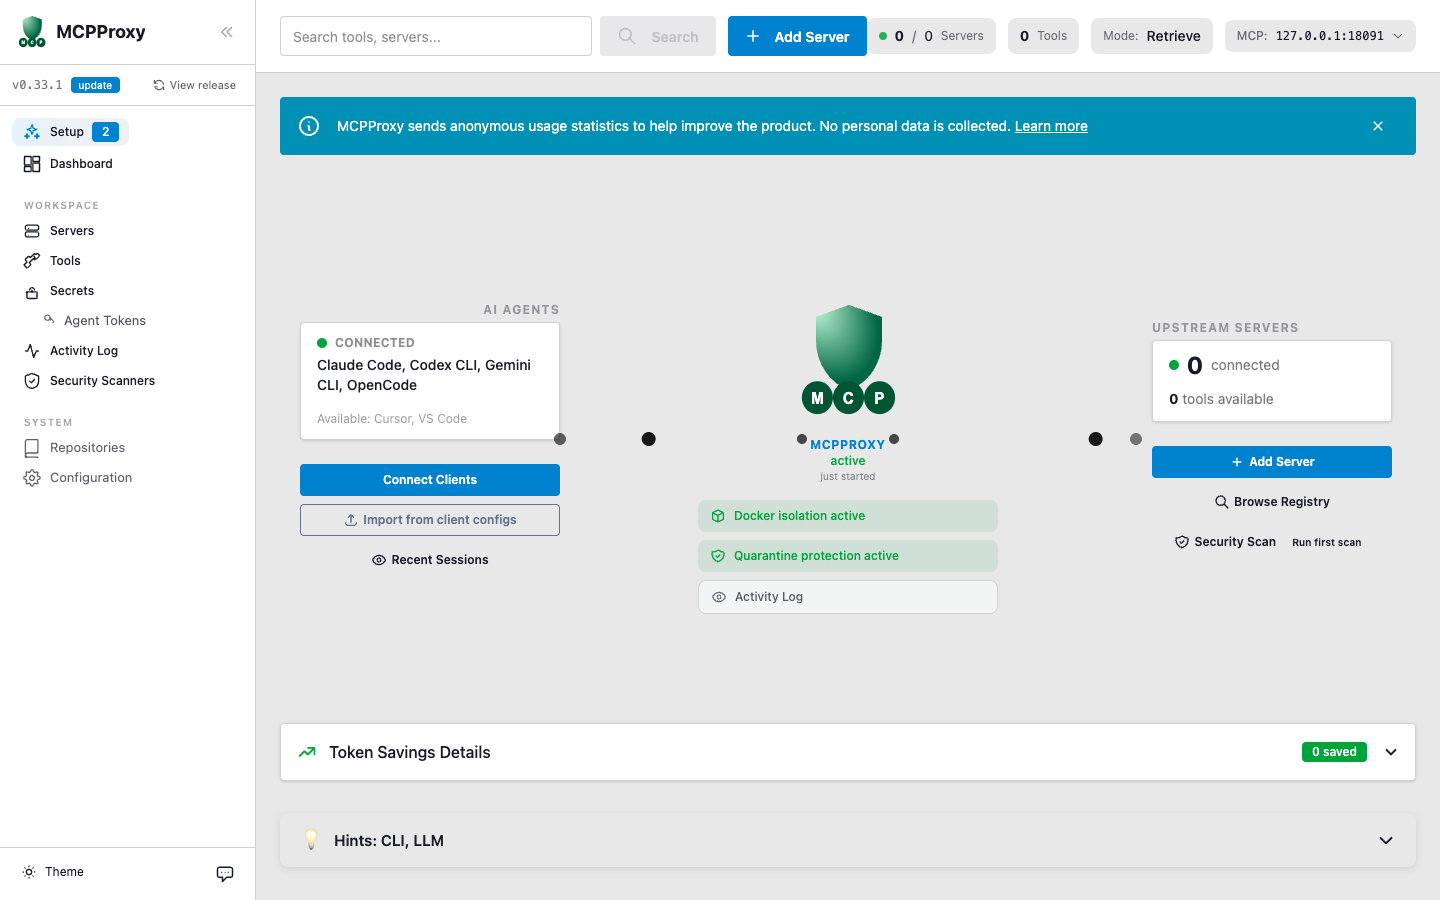
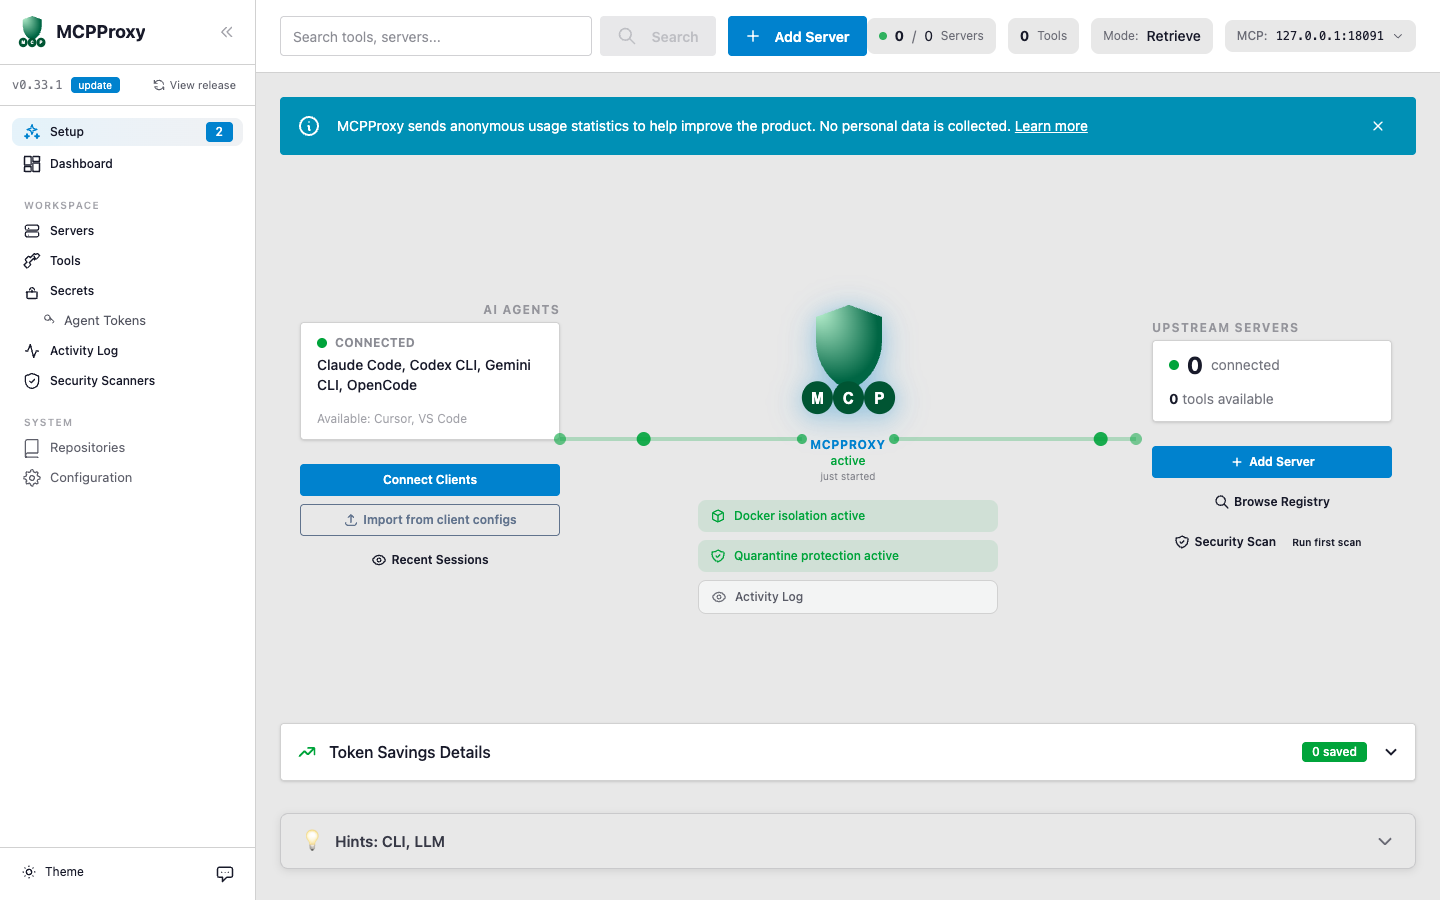
fix(frontend): port v4 DaisyUI CSS vars to v5 + full-width sidebar menu
Related #498

DaisyUI v5 renamed all theme CSS variables (--su->--color-success,
--p->--color-primary, --b1/2/3->--color-base-100/200/300,
--bc->--color-base-content) and the variable now holds the complete color
(so the hsl()/oklch() wrapper must be dropped). The undefined v4 short vars
resolved to black/none, which turned the dashboard connection dots/lines
black and dropped the MCP logo glow. Converted ~50 references across
Dashboard, TokenPieChart, HintsPanel and CollapsibleHintsPanel; opacity
uses become color-mix(in oklch, <color> N%, transparent).

Also: v5 .menu defaults to width:max-content, so the left sidebar nav items
(and their active highlight) only spanned content width. Added w-full to the
sidebar .menu lists (ul width 117px -> 231px, fills the rail).

Verified: dots fill oklch(0.62 0.194 149.214) (green); logo glow restored;
make build green.

diff --git a/frontend/src/components/CollapsibleHintsPanel.vue b/frontend/src/components/CollapsibleHintsPanel.vue
@@ -154,8 +154,8 @@ const copyToClipboard = async (text: string) => {
   align-items: center;
   gap: 0.75rem;
   padding: 0.75rem 1.25rem;
-  background: hsl(var(--b2));
-  border: 1px solid hsl(var(--bc) / 0.15);
+  background: var(--color-base-200);
+  border: 1px solid color-mix(in oklch, var(--color-base-content) 15%, transparent);
   border-radius: 0.5rem;
   cursor: pointer;
   transition: all 0.2s ease;
@@ -163,8 +163,8 @@ const copyToClipboard = async (text: string) => {
 }
 
 .hints-collapsed:hover {
-  background: hsl(var(--b3));
-  border-color: hsl(var(--bc) / 0.25);
+  background: var(--color-base-300);
+  border-color: color-mix(in oklch, var(--color-base-content) 25%, transparent);
   box-shadow: 0 4px 12px rgba(0, 0, 0, 0.15);
 }
 
@@ -177,7 +177,7 @@ const copyToClipboard = async (text: string) => {
   font-weight: 600;
   font-size: 0.95rem;
   flex: 1;
-  color: hsl(var(--bc) / 0.85);
+  color: color-mix(in oklch, var(--color-base-content) 85%, transparent);
 }
 
 .expand-icon,
@@ -185,14 +185,14 @@ const copyToClipboard = async (text: string) => {
   width: 1.25rem;
   height: 1.25rem;
   flex-shrink: 0;
-  color: hsl(var(--bc) / 0.6);
+  color: color-mix(in oklch, var(--color-base-content) 60%, transparent);
   transition: transform 0.2s ease;
 }
 
 /* Expanded State */
 .hints-expanded {
-  background: hsl(var(--b2));
-  border: 1px solid hsl(var(--bc) / 0.15);
+  background: var(--color-base-200);
+  border: 1px solid color-mix(in oklch, var(--color-base-content) 15%, transparent);
   border-radius: 0.5rem;
   overflow: hidden;
   box-shadow: 0 4px 16px rgba(0, 0, 0, 0.15);
@@ -216,12 +216,12 @@ const copyToClipboard = async (text: string) => {
   justify-content: space-between;
   padding: 0.75rem 1.25rem;
   cursor: pointer;
-  border-bottom: 1px solid hsl(var(--bc) / 0.1);
-  background: hsl(var(--b3));
+  border-bottom: 1px solid color-mix(in oklch, var(--color-base-content) 10%, transparent);
+  background: var(--color-base-300);
 }
 
 .hints-header:hover {
-  background: hsl(var(--b2));
+  background: var(--color-base-200);
 }
 
 .hints-header-left {
@@ -240,7 +240,7 @@ const copyToClipboard = async (text: string) => {
 .hint-section {
   margin-bottom: 2rem;
   padding-bottom: 2rem;
-  border-bottom: 1px solid hsl(var(--bc) / 0.1);
+  border-bottom: 1px solid color-mix(in oklch, var(--color-base-content) 10%, transparent);
 }
 
 .hint-section:last-child {
@@ -264,13 +264,13 @@ const copyToClipboard = async (text: string) => {
 .hint-section-title {
   font-size: 1.1rem;
   font-weight: 600;
-  color: hsl(var(--bc));
+  color: var(--color-base-content);
   margin: 0;
 }
 
 .hint-description {
   margin: 0 0 1rem 0;
-  color: hsl(var(--bc) / 0.7);
+  color: color-mix(in oklch, var(--color-base-content) 70%, transparent);
   font-size: 0.9rem;
   line-height: 1.5;
 }
@@ -287,21 +287,21 @@ const copyToClipboard = async (text: string) => {
 .subsection-title {
   font-size: 0.95rem;
   font-weight: 600;
-  color: hsl(var(--bc) / 0.9);
+  color: color-mix(in oklch, var(--color-base-content) 90%, transparent);
   margin: 0 0 0.5rem 0;
 }
 
 .subsection-text {
   margin: 0 0 0.75rem 0;
-  color: hsl(var(--bc) / 0.7);
+  color: color-mix(in oklch, var(--color-base-content) 70%, transparent);
   font-size: 0.875rem;
   line-height: 1.5;
 }
 
 /* Code Blocks */
 .code-block-wrapper {
-  background: hsl(var(--b3));
-  border: 1px solid hsl(var(--bc) / 0.1);
+  background: var(--color-base-300);
+  border: 1px solid color-mix(in oklch, var(--color-base-content) 10%, transparent);
   border-radius: 0.5rem;
   overflow: hidden;
   margin: 0.5rem 0;
@@ -312,14 +312,14 @@ const copyToClipboard = async (text: string) => {
   align-items: center;
   justify-content: space-between;
   padding: 0.5rem 0.75rem;
-  background: hsl(var(--b2));
-  border-bottom: 1px solid hsl(var(--bc) / 0.1);
+  background: var(--color-base-200);
+  border-bottom: 1px solid color-mix(in oklch, var(--color-base-content) 10%, transparent);
 }
 
 .code-language {
   font-size: 0.75rem;
   font-family: 'Courier New', Courier, monospace;
-  color: hsl(var(--bc) / 0.6);
+  color: color-mix(in oklch, var(--color-base-content) 60%, transparent);
   text-transform: uppercase;
 }
 
@@ -327,17 +327,17 @@ const copyToClipboard = async (text: string) => {
   padding: 0.25rem 0.5rem;
   font-size: 0.75rem;
   background: transparent;
-  border: 1px solid hsl(var(--bc) / 0.2);
+  border: 1px solid color-mix(in oklch, var(--color-base-content) 20%, transparent);
   border-radius: 0.25rem;
   cursor: pointer;
-  color: hsl(var(--bc) / 0.7);
+  color: color-mix(in oklch, var(--color-base-content) 70%, transparent);
   transition: all 0.2s ease;
 }
 
 .copy-button:hover {
-  background: hsl(var(--bc) / 0.1);
-  border-color: hsl(var(--bc) / 0.3);
-  color: hsl(var(--bc));
+  background: color-mix(in oklch, var(--color-base-content) 10%, transparent);
+  border-color: color-mix(in oklch, var(--color-base-content) 30%, transparent);
+  color: var(--color-base-content);
 }
 
 .code-block {
@@ -347,8 +347,8 @@ const copyToClipboard = async (text: string) => {
   font-family: 'Courier New', Courier, monospace;
   font-size: 0.8rem;
   line-height: 1.5;
-  color: hsl(var(--bc));
-  background: hsl(var(--b3));
+  color: var(--color-base-content);
+  background: var(--color-base-300);
 }
 
 .code-block code {
@@ -358,8 +358,8 @@ const copyToClipboard = async (text: string) => {
 
 /* Simple Code (backward compatibility) */
 .simple-code {
-  background: hsl(var(--b3));
-  border: 1px solid hsl(var(--bc) / 0.1);
+  background: var(--color-base-300);
+  border: 1px solid color-mix(in oklch, var(--color-base-content) 10%, transparent);
   border-radius: 0.5rem;
   padding: 0.75rem;
   margin: 0.5rem 0;
@@ -376,7 +376,7 @@ const copyToClipboard = async (text: string) => {
 .hint-list {
   margin: 0.5rem 0;
   padding-left: 1.5rem;
-  color: hsl(var(--bc) / 0.8);
+  color: color-mix(in oklch, var(--color-base-content) 80%, transparent);
   font-size: 0.875rem;
   line-height: 1.6;
 }
@@ -395,16 +395,16 @@ const copyToClipboard = async (text: string) => {
 }
 
 .hints-content::-webkit-scrollbar-track {
-  background: hsl(var(--b3));
+  background: var(--color-base-300);
   border-radius: 0.25rem;
 }
 
 .hints-content::-webkit-scrollbar-thumb {
-  background: hsl(var(--bc) / 0.3);
+  background: color-mix(in oklch, var(--color-base-content) 30%, transparent);
   border-radius: 0.25rem;
 }
 
 .hints-content::-webkit-scrollbar-thumb:hover {
-  background: hsl(var(--bc) / 0.5);
+  background: color-mix(in oklch, var(--color-base-content) 50%, transparent);
 }
 </style>

diff --git a/frontend/src/views/Dashboard.vue b/frontend/src/views/Dashboard.vue
@@ -142,40 +142,40 @@
         <!-- Connection lines: one fat horizontal line each side, big green running dot -->
         <svg class="absolute inset-0 w-full h-full pointer-events-none hidden lg:block overflow-visible" preserveAspectRatio="none">
           <!-- Left fat line (clients → hub) -->
-          <line x1="0" y1="50%" x2="42%" y2="50%" stroke="oklch(var(--su))" stroke-width="4" stroke-opacity="0.25" />
+          <line x1="0" y1="50%" x2="42%" y2="50%" stroke="var(--color-success)" stroke-width="4" stroke-opacity="0.25" />
           <!-- Right fat line (hub → servers) -->
-          <line x1="58%" y1="50%" x2="100%" y2="50%" stroke="oklch(var(--su))" stroke-width="4" stroke-opacity="0.25" />
+          <line x1="58%" y1="50%" x2="100%" y2="50%" stroke="var(--color-success)" stroke-width="4" stroke-opacity="0.25" />
 
           <!-- Green dots travel once every 20s cycle, 4 dots total -->
           <!-- Left dot 1: clients → hub -->
-          <circle r="7" fill="oklch(var(--su))" opacity="0">
+          <circle r="7" fill="var(--color-success)" opacity="0">
             <animate attributeName="cx" values="0%;0%;42%;42%" keyTimes="0;0.05;0.15;1" dur="20s" repeatCount="indefinite" />
             <animate attributeName="cy" values="50%;50%;50%;50%" dur="20s" repeatCount="indefinite" />
             <animate attributeName="opacity" values="0;0.9;0.9;0;0" keyTimes="0;0.05;0.13;0.15;1" dur="20s" repeatCount="indefinite" />
           </circle>
           <!-- Left dot 2: clients → hub, staggered -->
-          <circle r="6" fill="oklch(var(--su))" opacity="0">
+          <circle r="6" fill="var(--color-success)" opacity="0">
             <animate attributeName="cx" values="0%;0%;42%;42%" keyTimes="0;0.1;0.2;1" dur="20s" repeatCount="indefinite" />
             <animate attributeName="cy" values="50%;50%;50%;50%" dur="20s" repeatCount="indefinite" />
             <animate attributeName="opacity" values="0;0.7;0.7;0;0" keyTimes="0;0.1;0.18;0.2;1" dur="20s" repeatCount="indefinite" />
           </circle>
 
           <!-- Right dot 1: servers → hub -->
-          <circle r="7" fill="oklch(var(--su))" opacity="0">
+          <circle r="7" fill="var(--color-success)" opacity="0">
             <animate attributeName="cx" values="100%;100%;58%;58%" keyTimes="0;0.07;0.17;1" dur="20s" repeatCount="indefinite" />
             <animate attributeName="cy" values="50%;50%;50%;50%" dur="20s" repeatCount="indefinite" />
             <animate attributeName="opacity" values="0;0.9;0.9;0;0" keyTimes="0;0.07;0.15;0.17;1" dur="20s" repeatCount="indefinite" />
           </circle>
           <!-- Right dot 2: servers → hub, staggered -->
-          <circle r="6" fill="oklch(var(--su))" opacity="0">
+          <circle r="6" fill="var(--color-success)" opacity="0">
             <animate attributeName="cx" values="100%;100%;58%;58%" keyTimes="0;0.12;0.22;1" dur="20s" repeatCount="indefinite" />
             <animate attributeName="cy" values="50%;50%;50%;50%" dur="20s" repeatCount="indefinite" />
             <animate attributeName="opacity" values="0;0.7;0.7;0;0" keyTimes="0;0.12;0.2;0.22;1" dur="20s" repeatCount="indefinite" />
           </circle>
 
           <!-- Static green dots at hub connection points -->
-          <circle cx="42%" cy="50%" r="5" fill="oklch(var(--su))" opacity="0.7" />
-          <circle cx="58%" cy="50%" r="5" fill="oklch(var(--su))" opacity="0.7" />
+          <circle cx="42%" cy="50%" r="5" fill="var(--color-success)" opacity="0.7" />
+          <circle cx="58%" cy="50%" r="5" fill="var(--color-success)" opacity="0.7" />
         </svg>
 
         <!-- Token savings badge (above hub) -->
@@ -824,10 +824,10 @@ onUnmounted(() => {
 /* Hub glow animation when MCPProxy is active — uses drop-shadow to follow the logo shape */
 @keyframes hubGlow {
   0%, 100% {
-    filter: drop-shadow(0 4px 8px oklch(var(--p) / 0.15)) drop-shadow(0 2px 4px oklch(var(--p) / 0.1));
+    filter: drop-shadow(0 4px 8px color-mix(in oklch, var(--color-primary) 15%, transparent)) drop-shadow(0 2px 4px color-mix(in oklch, var(--color-primary) 10%, transparent));
   }
   50% {
-    filter: drop-shadow(0 6px 16px oklch(var(--p) / 0.3)) drop-shadow(0 3px 8px oklch(var(--p) / 0.15));
+    filter: drop-shadow(0 6px 16px color-mix(in oklch, var(--color-primary) 30%, transparent)) drop-shadow(0 3px 8px color-mix(in oklch, var(--color-primary) 15%, transparent));
   }
 }
 

diff --git a/frontend/src/components/SidebarNav.vue b/frontend/src/components/SidebarNav.vue
@@ -93,7 +93,7 @@
       >
         <!-- Server Edition: User Menu -->
         <template v-if="authStore.isTeamsEdition">
-          <ul class="menu menu-sm gap-0.5 p-0">
+          <ul class="menu menu-sm w-full gap-0.5 p-0">
             <li v-if="authStore.isAdmin && !collapsed" class="menu-title px-3 !py-1">
               <span class="text-[10px] font-semibold uppercase tracking-[0.12em] text-base-content/40">My Workspace</span>
             </li>
@@ -111,7 +111,7 @@
 
           <template v-if="authStore.isAdmin">
             <div class="divider my-2 px-2"></div>
-            <ul class="menu menu-sm gap-0.5 p-0">
+            <ul class="menu menu-sm w-full gap-0.5 p-0">
               <li v-if="!collapsed" class="menu-title px-3 !py-1">
                 <span class="text-[10px] font-semibold uppercase tracking-[0.12em] text-base-content/40">Administration</span>
               </li>
@@ -136,7 +136,7 @@
                to a quiet checkmark when all three tabs (clients/servers/verify)
                are satisfied. Click reopens the wizard at the first
                incomplete tab. -->
-          <ul class="menu menu-sm gap-0.5 p-0 mb-1">
+          <ul class="menu menu-sm w-full gap-0.5 p-0 mb-1">
             <li>
               <a
                 href="#"
@@ -178,7 +178,7 @@
           </ul>
 
           <!-- Dashboard (solo top row, no section label) -->
-          <ul class="menu menu-sm gap-0.5 p-0">
+          <ul class="menu menu-sm w-full gap-0.5 p-0">
             <li>
               <router-link
                 to="/"
@@ -201,7 +201,7 @@
           </div>
           <div v-else class="mt-3 mb-1 mx-auto w-6 h-px bg-base-300"></div>
 
-          <ul class="menu menu-sm gap-0.5 p-0">
+          <ul class="menu menu-sm w-full gap-0.5 p-0">
             <li>
               <router-link
                 to="/servers"
@@ -296,7 +296,7 @@
           </div>
           <div v-else class="mt-3 mb-1 mx-auto w-6 h-px bg-base-300"></div>
 
-          <ul class="menu menu-sm gap-0.5 p-0">
+          <ul class="menu menu-sm w-full gap-0.5 p-0">
             <li>
               <router-link
                 to="/repositories"

diff --git a/frontend/src/components/HintsPanel.vue b/frontend/src/components/HintsPanel.vue
@@ -103,7 +103,7 @@ const copyToClipboard = async (text: string) => {
 }
 
 .collapse {
-  border: 1px solid hsl(var(--bc) / 0.1);
+  border: 1px solid color-mix(in oklch, var(--color-base-content) 10%, transparent);
 }
 
 .collapse-title {
@@ -129,17 +129,17 @@ code {
 
 .mockup-code {
   padding: 1rem;
-  background: hsl(var(--b3));
+  background: var(--color-base-300);
   border-radius: 0.5rem;
 }
 
 .prose {
-  color: hsl(var(--bc));
+  color: var(--color-base-content);
 }
 
 .prose h4 {
   margin: 0.5rem 0;
-  color: hsl(var(--bc));
+  color: var(--color-base-content);
 }
 
 .prose p {

diff --git a/frontend/src/components/TokenPieChart.vue b/frontend/src/components/TokenPieChart.vue
@@ -35,7 +35,7 @@ const chartData = computed(() => ({
       data: props.data.map(d => d.value),
       backgroundColor: props.data.map(d => d.color),
       borderWidth: 2,
-      borderColor: 'hsl(var(--b1))'
+      borderColor: 'var(--color-base-100)'
     }
   ]
 }))

diff --git a/specs/055-frontend-major-upgrades/verification/build-report.py b/specs/055-frontend-major-upgrades/verification/build-report.py
@@ -63,10 +63,15 @@ if os.path.isdir(EXTRAS):
     <table>
       <tr><th>Regression</th><th>Cause (v5 breaking change)</th><th>Fix</th></tr>
       <tr><td>Form labels/inputs misaligned across ~16 views</td><td>v5 removed <code>.form-control</code> and repurposed <code>.label</code>/<code>.label-text</code></td><td>Unlayered compat shim in <code>main.css</code> restoring v4 stack semantics (overrides DaisyUI's cascade layer)</td></tr>
+      <tr><td>Form inputs only ~half width</td><td>v5 gives <code>.input</code>/<code>.select</code>/<code>.textarea</code> an intrinsic width, so <code>form-control</code>'s flex stretch no longer fills the row</td><td><code>.form-control :where(.input,.select,.textarea){{width:100%}}</code> in the shim</td></tr>
       <tr><td>Manual/Import &amp; server-detail tabs looked like plain text</td><td><code>tabs-boxed</code>→<code>tabs-box</code>, <code>tabs-bordered</code>→<code>tabs-border</code> renamed in v5</td><td>Renamed tab containers in AddServerModal, OnboardingWizard, ServerDetail</td></tr>
       <tr><td>Theme dropdown clipped (labels + title cut off-screen)</td><td>Menu too narrow (<code>w-64</code>) and <code>dropdown-end</code> pushed a wider menu off the left of the viewport from the left sidebar</td><td>Widened to <code>w-72</code> + <code>flex-nowrap</code>; dropped <code>dropdown-end</code> so it opens rightward (left edge x: −85px → +12px, on-screen)</td></tr>
+      <tr><td>Sidebar nav items + active highlight only content-width</td><td>v5 <code>.menu</code> defaults to <code>width: max-content</code> (v4 filled the rail)</td><td>Added <code>w-full</code> to the sidebar <code>.menu</code> lists (ul width 117px → 231px)</td></tr>
+      <tr><td>Dashboard connection dots/lines black; MCP logo glow gone</td><td>v5 renamed all theme CSS vars (<code>--su</code>→<code>--color-success</code>, <code>--p</code>→<code>--color-primary</code>, <code>--b1/2/3</code>, <code>--bc</code>) and the var now holds the full color (no <code>hsl()</code>/<code>oklch()</code> wrapper); undefined short vars resolved to black/none</td><td>Converted ~50 refs across Dashboard, TokenPieChart, Hints panels to v5 vars; opacity uses → <code>color-mix(in oklch, …, transparent)</code></td></tr>
     </table>
-    <div class="pair">
+    <div class="qa-grid">
+      <figure><figcaption>Dashboard — fixed (green connection dots/lines + MCP logo glow restored)</figcaption>{img(os.path.join(EXTRAS, "dashboard-fixed.png"))}</figure>
+      <figure><figcaption>Sidebar nav — fixed (items + active highlight fill the rail)</figcaption>{img(os.path.join(EXTRAS, "sidebar-servers.png"))}</figure>
       <figure><figcaption>Add-server form — fixed (labels stack, full-width inputs, boxed tabs)</figcaption>{img(form)}</figure>
       <figure><figcaption>Theme dropdown — fixed (on-screen, all 32 themes + swatches fit)</figcaption>{img(theme)}</figure>
     </div>"""